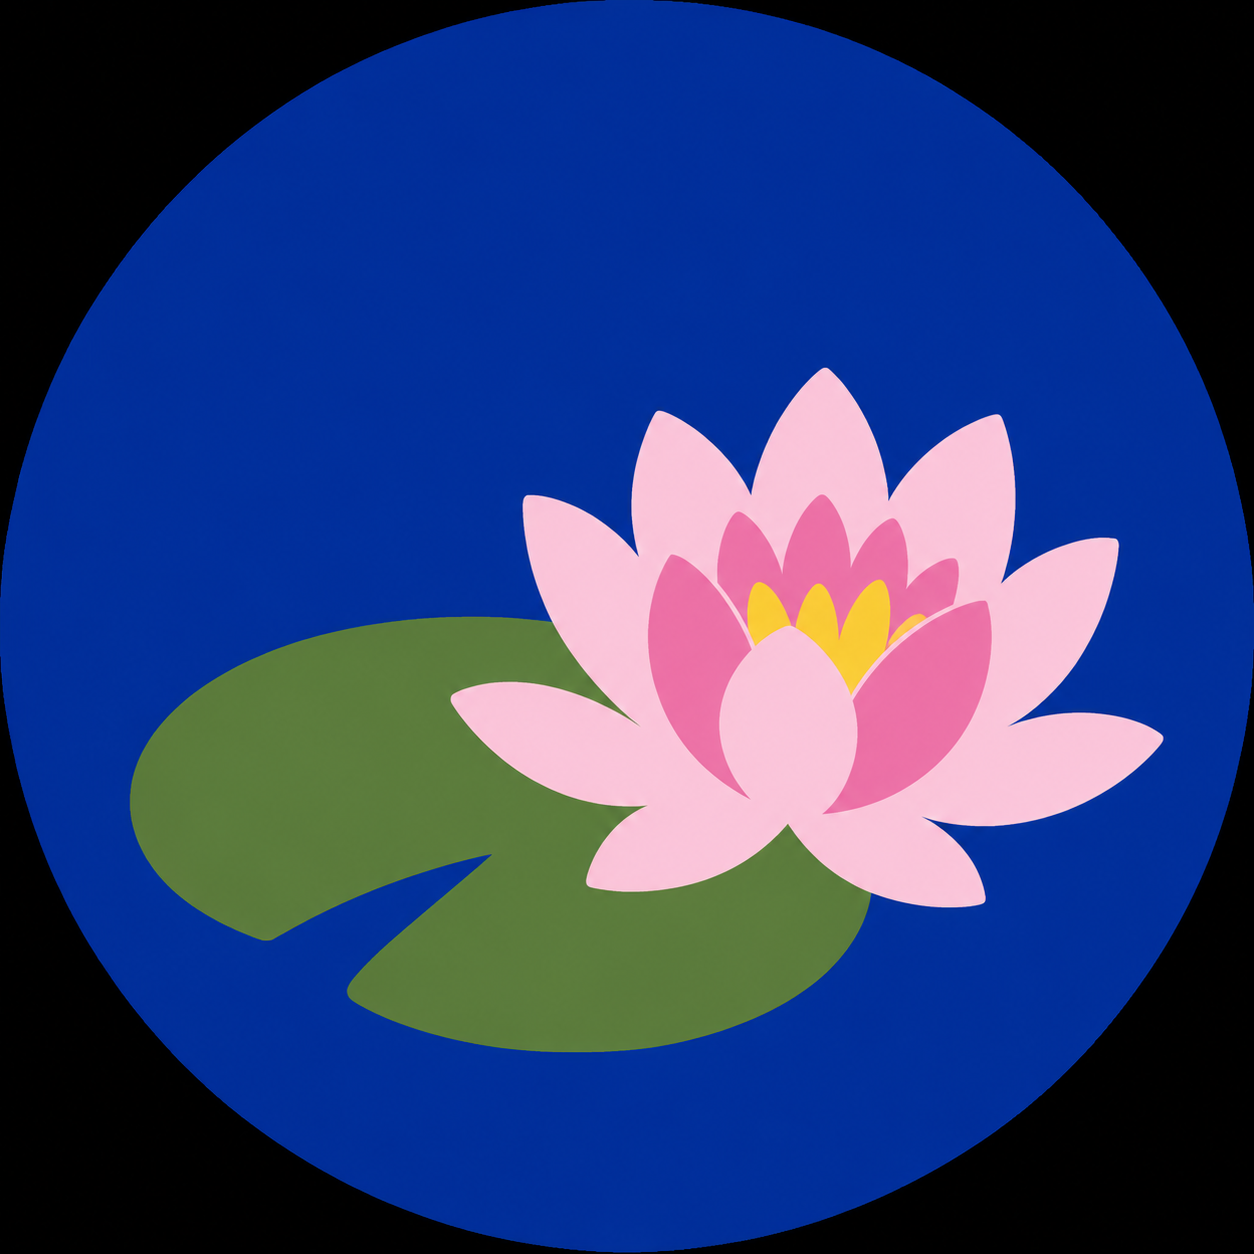
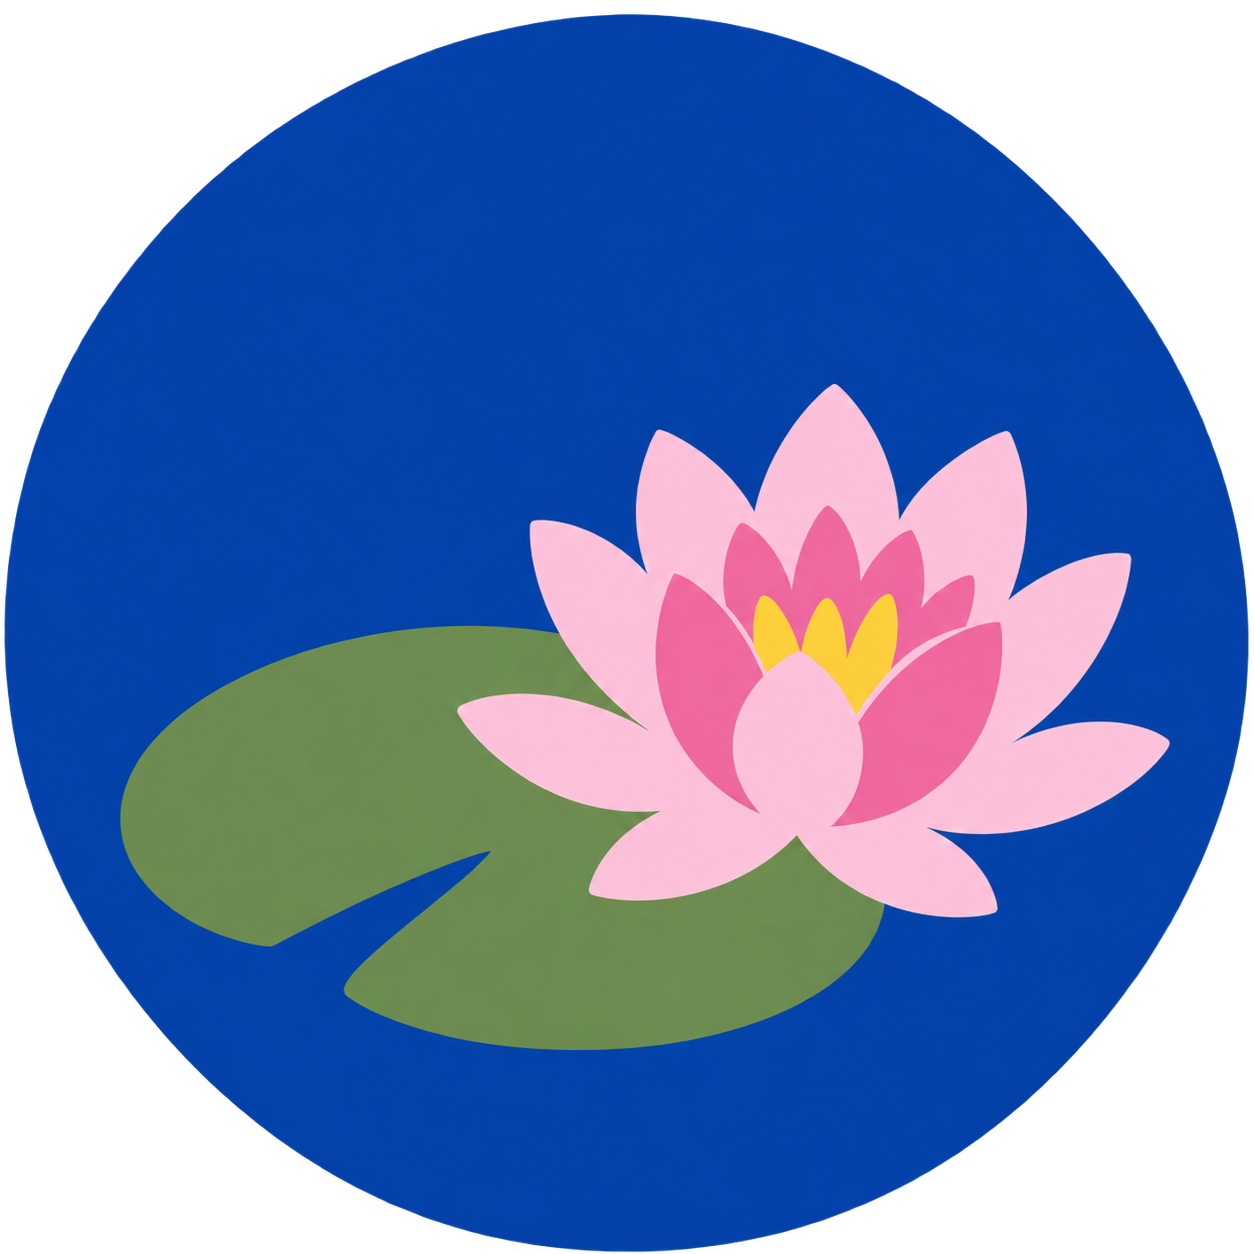
Fixing scoring

diff --git a/public/app.js b/public/app.js
@@ -121,7 +121,7 @@
       return;
     }
 
-    if (viewName === 'categorizing' || viewName === 'reveal') {
+    if (viewName === 'drawing' || viewName === 'categorizing' || viewName === 'reveal') {
       render();
       return;
     }
@@ -129,7 +129,7 @@
 
   function setScreen(name) {
     App.screen = name;
-    if (['home', 'host', 'join', 'lobby', 'categorizing', 'reveal'].includes(name)) {
+    if (['home', 'host', 'join', 'lobby', 'drawing', 'categorizing', 'reveal'].includes(name)) {
       loadView(name);
       return;
     }
@@ -195,27 +195,47 @@
 
   function renderDrawing() {
     const r = App.round;
-    renderIntoTarget('drawScreen', `
-      <div class="tagline" style="margin-bottom:6px;">Round ${r.round} of ${r.rounds}</div>
-      <div class="timer" id="timer">--s</div>
-      <div class="word-banner" style="background:var(--wordA); color:var(--wordA-ink);" id="wordBanner">Draw: ${esc(r.word)}</div>
-      <div class="canvas-wrap"><canvas id="board" width="480" height="330"></canvas></div>
-      <div class="toolbar">
-        ${['#000000', '#950851', '#519508', '#f9cb34'].map(c => `<button class="swatch ${c === App.drawColor ? 'active' : ''}" data-color="${c}" style="background:${c}"></button>`).join('')}
-        <button id="clearBtn" class="btn-ghost" style="width:auto; margin:0; padding:8px 14px;">Clear</button>
-      </div>
-      <button class="btn-primary" id="submitDraw">Submit Drawing</button>
-      <div class="small-note">Your word is private &mdash; only you can see it. Others will try to guess it from your drawing.</div>
-    `);
-    setupCanvas();
-    document.querySelectorAll('.swatch').forEach(sw => {
-      sw.onclick = () => { App.drawColor = sw.dataset.color; document.querySelectorAll('.swatch').forEach(s => s.classList.remove('active')); sw.classList.add('active'); };
+    const roundNumber = document.getElementById('drawRoundNumber');
+    const totalRounds = document.getElementById('drawTotalRounds');
+    const wordText = document.getElementById('drawWord');
+    const swatches = document.querySelectorAll('.swatch');
+    const clearBtn = document.getElementById('clearBtn');
+    const submitBtn = document.getElementById('submitDraw');
+    const board = document.getElementById('board');
+
+    if (roundNumber) roundNumber.textContent = String(r.round);
+    if (totalRounds) totalRounds.textContent = String(r.rounds);
+    if (wordText) wordText.textContent = r.word || '...';
+
+    swatches.forEach(sw => {
+      const isActive = sw.dataset.color === App.drawColor;
+      sw.classList.toggle('active', isActive);
+      sw.onclick = () => {
+        App.drawColor = sw.dataset.color;
+        document.querySelectorAll('.swatch').forEach(s => s.classList.remove('active'));
+        sw.classList.add('active');
+      };
     });
-    document.getElementById('clearBtn').onclick = () => {
-      const cv = document.getElementById('board'); const ctx = cv.getContext('2d');
-      ctx.fillStyle = '#fff'; ctx.fillRect(0, 0, cv.width, cv.height);
-    };
-    document.getElementById('submitDraw').onclick = () => submitDrawing();
+
+    if (clearBtn) {
+      clearBtn.onclick = () => {
+        const cv = document.getElementById('board');
+        if (!cv) return;
+        const ctx = cv.getContext('2d');
+        ctx.fillStyle = '#fff';
+        ctx.fillRect(0, 0, cv.width, cv.height);
+      };
+    }
+
+    if (submitBtn) {
+      submitBtn.onclick = () => submitDrawing();
+    }
+
+    if (board && !board.dataset.ready) {
+      setupCanvas();
+      board.dataset.ready = 'true';
+    }
+
     startLocalCountdown(r.phaseEndsAt, 'timer', () => { if (!App.drawSubmitted) submitDrawing(); });
   }
 
@@ -301,8 +321,11 @@
 
   function renderReveal() {
     const data = App.revealData;
+    console.log("Data is " + JSON.stringify(data));
     const roundNumberEl = document.getElementById('revealRoundNumber');
     const revealDetails = document.getElementById('revealDetails');
+
+    console.log("Details are " + JSON.stringify(data.details));
 
     if (!data) {
       if (roundNumberEl) roundNumberEl.textContent = '0';
@@ -312,31 +335,75 @@
 
     if (roundNumberEl) roundNumberEl.textContent = String(data.round);
     if (revealDetails) {
-      revealDetails.innerHTML = `
-        ${data.details.map(d => `
-          <div class="reveal-item">
-            <span class="points-badge">+${d.pointsEarned}</span>
-            <strong>${esc(d.drawerName)}</strong> was drawing <span class="pill ${d.word === data.wordPair[0] ? 'pill-a' : 'pill-b'}">${esc(d.word)}</span>
-            <img src="${d.dataUrl}" alt="drawing"/>
-            <div>${d.guesses.map(g => `<span class="guess-tag ${g.correct ? 'guess-right' : 'guess-wrong'}">${g.correct ? '\u2713' : '\u2717'} ${esc(g.guesserName)}</span>`).join('') || '<span class="hint">No one guessed this one.</span>'}</div>
+      fetch('/views/drawing-score-card.html').then(r => r.text()).then(template => {
+        const cards = Object.values(data.details).map(d => {
+          console.log("Single detail is " + JSON.stringify(d));
+          const wrapper = document.createElement('div');
+          wrapper.innerHTML = template.trim();
+          const card = wrapper.firstElementChild;
+
+          const drawerEl = card.querySelector('.score-card-drawer');
+          const wordEl = card.querySelector('.score-card-word');
+          const drawingPointsEl = card.querySelector('.drawing-card-points');
+          const guessingPointsEl = card.querySelector('.guessing-card-points');
+          const imgEl = card.querySelector('.score-card-image');
+          const guessesEl = card.querySelector('.score-card-guesses');
+
+          if (drawerEl) drawerEl.textContent = d.drawerName;
+          if (wordEl) {
+            wordEl.textContent = d.word;
+            // apply pill class for A/B coloring
+            if (d.word === data.wordPair[0]) {
+              wordEl.classList.add('pill-a');
+            } else if (d.word === data.wordPair[1]) {
+              wordEl.classList.add('pill-b');
+            }
+          }
+          if (drawingPointsEl) drawingPointsEl.textContent = `+${d.drawPoints}`;
+          if (guessingPointsEl) guessingPointsEl.textContent = `+${d.guessPoints}`;
+          if (imgEl) imgEl.src = d.dataUrl || '';
+
+          if (guessesEl) {
+            if (d.guesses && d.guesses.length) {
+              guessesEl.innerHTML = d.guesses.map(g => `<span class="guess-tag ${g.correct ? 'guess-right' : 'guess-wrong'}">${g.correct ? '\u2713' : '\u2717'} ${esc(g.guesserName)}</span>`).join('');
+            } else {
+              guessesEl.innerHTML = '<span class="hint">No guesses submitted for drawing.</span>';
+            }
+          }
+
+          return card.outerHTML;
+        }).join('');
+
+        const leaderboardHtml = `
+          <div class="card">
+            <h2>Leaderboard</h2>
+            <ul class="player-list">${data.leaderboard.map(p => `<li><span>${esc(p.name)}</span><span class="player-score">${p.score}</span></li>`).join('')}</ul>
           </div>
-        `).join('')}
-        <div class="card">
-          <h2>Leaderboard</h2>
-          <ul class="player-list">${data.leaderboard.map(p => `<li><span>${esc(p.name)}</span><span class="player-score">${p.score}</span></li>`).join('')}</ul>
-        </div>
-        ${App.isHost
+        `;
+
+        const hostHtml = App.isHost
           ? `<button class="btn-primary" id="continueBtn">${data.isLastRound ? 'See Final Results' : 'Start Next Round'}</button>`
-          : `<div class="status-msg">Waiting for the host to continue...</div>`}
-      `;
+          : `<div class="status-msg">Waiting for the host to continue...</div>`;
+
+        revealDetails.innerHTML = cards + leaderboardHtml + hostHtml;
+
+        if (App.isHost) {
+          const continueBtn = document.getElementById('continueBtn');
+          if (continueBtn) {
+            continueBtn.onclick = () => {
+              const btn = continueBtn; btn.disabled = true; btn.textContent = 'Loading...';
+              socket.emit('continue-after-reveal');
+            };
+          }
+        }
+      }).catch(err => {
+        console.error('Failed loading score card template', err);
+        revealDetails.innerHTML = '<div class="status-msg">Tallying results...</div>';
+      });
     }
 
-    if (App.isHost) {
-      document.getElementById('continueBtn').onclick = () => {
-        const btn = document.getElementById('continueBtn'); btn.disabled = true; btn.textContent = 'Loading...';
-        socket.emit('continue-after-reveal');
-      };
-    }
+    // NOTE: host button handler moved into fetch handler above
+
   }
 
   function renderFinished() {
@@ -396,6 +463,7 @@
 
   socket.on('phase-reveal', (payload) => {
     App.revealData = payload;
+    console.log("App reveal data is " + JSON.stringify(payload));
     setScreen('reveal');
   });
 

diff --git a/server/rooms.js b/server/rooms.js
@@ -1,5 +1,5 @@
 const EASY_WORDS = require('./easyWordPairs');
-const HARD_WORDS = require('./easyWordPairs');
+const HARD_WORDS = require('./hardWordPairs');
 
 // All active games live in memory, keyed by 4-letter room code.
 // This is intentional: games are short-lived and don't need a database.
@@ -73,9 +73,8 @@ function leaderboard(room) {
 function assignWordsForRound(room, roundIdx) {
   const pair = room.roundWords[roundIdx - 1];
   const ids = shuffled(Array.from(room.players.keys()));
-  const half = Math.ceil(ids.length / 2);
   const assignment = {};
-  ids.forEach((id, i) => { assignment[id] = i < half ? pair[0] : pair[1]; });
+  ids.forEach((id, i) => { assignment[id] = pair[Math.round(Math.random())] });
   room.assignments[roundIdx] = assignment;
   return assignment;
 }
@@ -85,10 +84,12 @@ function computeRoundResults(room, roundIdx) {
   const drawings = room.drawings[roundIdx] || {};
   const cats = room.categorizations[roundIdx] || {};
 
-  const roundPoints = {};
-  room.players.forEach((p, id) => { roundPoints[id] = 0; });
+  const drawPoints = {};
+  const guessPoints = {};
+  room.players.forEach((p, id) => { drawPoints[id] = 0; });
+  room.players.forEach((p, id) => { guessPoints[id] = 0; });
 
-  const details = [];
+  const details = {};
   for (const drawerId of Object.keys(drawings)) {
     const drawing = drawings[drawerId];
     if (!drawing) continue;
@@ -101,26 +102,32 @@ function computeRoundResults(room, roundIdx) {
       if (guess === undefined || guess === null) continue;
       const correct = guess === trueWord;
       if (correct) {
-        roundPoints[drawerId] = (roundPoints[drawerId] || 0) + 1;
-        roundPoints[guesserId] = (roundPoints[guesserId] || 0) + 1;
+        drawPoints[drawerId] = (drawPoints[drawerId] || 0) + 1;
+        guessPoints[guesserId] = (guessPoints[guesserId] || 0) + 1;
       }
       const guesser = room.players.get(guesserId);
       guesses.push({ guesserId, guesserName: guesser ? guesser.name : '???', guess, correct });
     }
     const drawer = room.players.get(drawerId);
-    details.push({
+    details[drawerId] = {
       drawerId,
       drawerName: drawer ? drawer.name : '???',
       word: trueWord,
       dataUrl: drawing.dataUrl,
       guesses,
-      pointsEarned: roundPoints[drawerId] || 0,
-    });
+      drawPoints: drawPoints[drawerId] || 0,
+    };
   }
 
-  room.players.forEach((p, id) => { p.score += (roundPoints[id] || 0); });
+  for (const drawerId of Object.keys(drawings)) {
+    details[drawerId]['guessPoints'] = guessPoints[drawerId] || 0;
+  }
 
-  const result = { details, roundPoints, wordPair: room.roundWords[roundIdx - 1] };
+  room.players.forEach((p, id) => { p.score += drawPoints[id] + guessPoints[id] });
+
+  console.log("Details are " + JSON.stringify(details));
+
+  const result = { details, drawPoints: drawPoints, guessPoints: guessPoints, wordPair: room.roundWords[roundIdx - 1] };
   room.results[roundIdx] = result;
   return result;
 }

diff --git a/public/views/drawing.html b/public/views/drawing.html
@@ -1,0 +1,14 @@
+<div id="drawScreen">
+  <h2 style="margin-bottom:6px;">Drawing round <span id="drawRoundNumber">0</span> of <span id="drawTotalRounds">0</span></h2>
+  <div class="timer" id="timer">--s</div>
+  <div class="word-banner" style="background:var(--wordA); color:var(--wordA-ink);" id="wordBanner">Draw: <span id="drawWord">...</span></div>
+  <div class="canvas-wrap"><canvas id="board" width="480" height="330"></canvas></div>
+  <div class="toolbar">
+    <button class="swatch active" data-color="#000000" style="background:#000000" aria-label="Black"></button>
+    <button class="swatch" data-color="#950851" style="background:#950851" aria-label="Magenta"></button>
+    <button class="swatch" data-color="#519508" style="background:#519508" aria-label="Green"></button>
+    <button class="swatch" data-color="#f9cb34" style="background:#f9cb34" aria-label="Gold"></button>
+    <button id="clearBtn" class="btn-ghost" style="width:auto; margin:0; padding:8px 14px;">Clear</button>
+  </div>
+  <button class="btn-primary" id="submitDraw">Submit Drawing</button>
+</div>

diff --git a/public/views/drawing-score-card.html b/public/views/drawing-score-card.html
@@ -1,0 +1,16 @@
+<div class="reveal-item score-card">
+  <div class="score-header" style="display:flex; justify-content:space-between; align-items:flex-start; gap:12px; margin-bottom:10px;">
+    <div>
+      <strong class="score-card-drawer">Player</strong>
+      <div style="margin-top:4px;">was drawing <span class="pill score-card-word">Word</span></div>
+    </div>
+    <span>Drawing: </span>
+    <span class="points-badge drawing-card-points">+0</span>
+    <span>Guessing: </span>
+    <span class="points-badge guessing-card-points">+0</span>
+  </div>
+  <img class="score-card-image" src="" alt="drawing" />
+  <div class="score-card-guesses">
+    <span class="hint">No guesses yet.</span>
+  </div>
+</div>

diff --git a/public/views/join.html b/public/views/join.html
@@ -5,7 +5,7 @@
         <label for="name">Your name</label>
         <input type="text" id="name" maxlength="18" />
         <label for="gameCode">Game code</label>
-        <input type="text" id="gameCode" maxlength="4" autocomplete="off" />
+        <input type="text" id="gameCode" autocomplete="off" />
         <button class="btn-primary" id="joinConfirm" type="submit">Join Game</button>
     </form>
     <button class="btn-ghost page-button" data-view="home">Back</button>

diff --git a/public/views/categorizing.html b/public/views/categorizing.html
@@ -1,5 +1,5 @@
 <div id="sortScreen">
-    <div class="tagline" style="margin-bottom:6px;">Round <span id="sortRoundNumber">0</span> &mdash; Sort the drawings</div>
+    <h2 style="margin-bottom:6px;">Round <span id="sortRoundNumber">0</span> &mdash; Sort the drawings</h2>
     <div class="timer" id="timer">--s</div>
     <div class="hint" style="margin-bottom:12px;">Which word was each artist drawing?</div>
     <div id="drawingCards"></div>

diff --git a/server/index.js b/server/index.js
@@ -42,7 +42,7 @@ function startDrawingPhase(room, roundIdx) {
     });
   });
 
-  room.timer = setTimeout(() => startCategorizingPhase(room), room.roundSeconds * 1000);
+  room.timer = setTimeout(() => startCategorizingPhase(room), room.roundSeconds * 1000 + 500);
 }
 
 function startCategorizingPhase(room) {

diff --git a/public/views/home.html b/public/views/home.html
@@ -9,4 +9,4 @@
 <div data-logo></div>
 <div id="homeError"></div>
 <button class="btn-primary page-button" data-view="host">Host a Game</button>
-<button class="btn-ghost page-button" data-view="join">Join with a Code</button>
+<button class="btn-ghost page-button" data-view="join">Join Game</button>

diff --git a/README.md b/README.md
@@ -33,3 +33,21 @@ npm start
 Then open **http://localhost:3000** in a couple of browser tabs (or on your
 phone via your computer's local IP address, e.g. `http://192.168.1.23:3000`)
 to test hosting a game in one tab and joining from another.
+
+
+## Deploy to Render (free tier)
+
+1. Push this project to a GitHub repo.
+2. In the Render dashboard, click **New → Web Service** and connect that repo.
+3. Render should auto-detect Node. Set:
+   - **Build command**: `npm install`
+   - **Start command**: `npm start`
+4. Choose the **Free** instance type. No environment variables or database
+   are needed.
+5. Deploy. You'll get a URL like `https://your-app.onrender.com` — that's
+   the link everyone opens to host or join a game.
+
+Render's free web services spin down after about 15 minutes with no
+traffic, and take roughly a minute to spin back up on the next request.
+That only affects the *first* person to open the link after a period of
+inactivity — once a game is running, active socket traffic keeps it awake.
